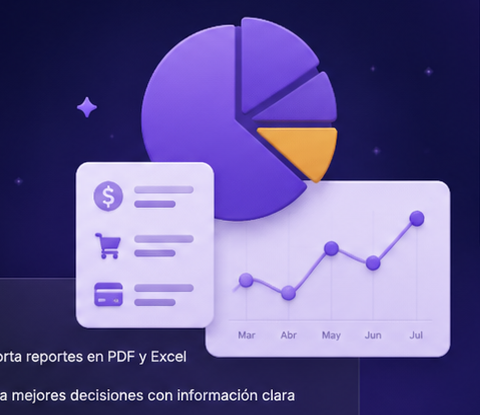
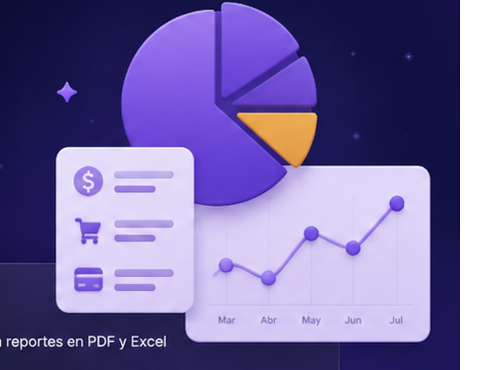
1206_0335

diff --git a/css/styles.css b/css/styles.css
@@ -6510,3 +6510,201 @@ body.is-premium-user #premiumView .premium-gold-btn[data-premium-cta] {
   .premium-v4-status .primary-btn { min-height: 48px; }
   .premium-v4-note { grid-template-columns: 1fr; }
 }
+
+
+/* Korah v4.1 Premium hero exact layout fix */
+#premiumView {
+  height: calc(100vh - 48px) !important;
+  min-height: 0 !important;
+  overflow-y: auto !important;
+  overflow-x: hidden !important;
+  padding: clamp(16px, 2vw, 26px) !important;
+  padding-bottom: 96px !important;
+  gap: 18px !important;
+}
+.premium-v4-hero {
+  position: relative !important;
+  overflow: hidden !important;
+  border-radius: 28px !important;
+  min-height: auto !important;
+  padding: clamp(28px, 4vw, 54px) !important;
+  display: grid !important;
+  grid-template-columns: minmax(420px, 1.05fr) minmax(300px, .78fr) minmax(310px, .62fr) !important;
+  grid-template-areas: "copy visual status" !important;
+  align-items: center !important;
+  column-gap: clamp(18px, 3vw, 46px) !important;
+  row-gap: 24px !important;
+  color: #fff !important;
+  background:
+    radial-gradient(circle at 92% 0%, rgba(196, 91, 255, .20), transparent 30%),
+    radial-gradient(circle at 47% 34%, rgba(109, 56, 245, .30), transparent 36%),
+    linear-gradient(135deg, #0f1834 0%, #111430 50%, #21115b 100%) !important;
+  box-shadow: 0 28px 80px rgba(15, 23, 42, .16) !important;
+}
+.premium-v4-hero::after {
+  content: '' !important;
+  position: absolute !important;
+  inset: 0 !important;
+  pointer-events: none !important;
+  background:
+    radial-gradient(circle at 50% 18%, rgba(255,255,255,.25) 0 2px, transparent 3px),
+    radial-gradient(circle at 41% 41%, rgba(167,139,250,.55) 0 2px, transparent 3px),
+    radial-gradient(circle at 70% 28%, rgba(167,139,250,.45) 0 2px, transparent 3px) !important;
+  opacity: .7 !important;
+}
+.premium-v4-copy {
+  grid-area: copy !important;
+  position: relative !important;
+  z-index: 3 !important;
+  min-width: 0 !important;
+}
+.premium-v4-copy h3 {
+  margin: clamp(18px, 2vw, 30px) 0 16px !important;
+  max-width: 660px !important;
+  font-size: clamp(44px, 4.6vw, 76px) !important;
+  line-height: .98 !important;
+  letter-spacing: -.075em !important;
+  color: #f8fafc !important;
+  overflow: visible !important;
+}
+.premium-v4-copy h3 span { color: #c4b5fd !important; }
+.premium-v4-copy > p {
+  max-width: 590px !important;
+  margin: 0 !important;
+  color: rgba(255,255,255,.80) !important;
+  font-size: clamp(15px, 1.1vw, 18px) !important;
+  line-height: 1.62 !important;
+}
+.premium-v4-why {
+  max-width: 840px !important;
+  margin-top: clamp(22px, 2.8vw, 34px) !important;
+  padding: clamp(18px, 2vw, 24px) !important;
+  border-radius: 22px !important;
+  background: rgba(255,255,255,.07) !important;
+  border: 1px solid rgba(255,255,255,.14) !important;
+  backdrop-filter: blur(16px) !important;
+  box-shadow: inset 0 1px 0 rgba(255,255,255,.12) !important;
+}
+.premium-v4-why h4 {
+  margin: 0 0 16px !important;
+  color: #bda8ff !important;
+  font-size: clamp(17px, 1.25vw, 22px) !important;
+}
+.premium-v4-why-grid {
+  display: grid !important;
+  grid-template-columns: repeat(2, minmax(0, 1fr)) !important;
+  gap: 12px 28px !important;
+}
+.premium-v4-why-grid p {
+  margin: 0 !important;
+  display: flex !important;
+  gap: 10px !important;
+  align-items: flex-start !important;
+  color: rgba(255,255,255,.86) !important;
+  font-size: clamp(12px, .9vw, 15px) !important;
+  line-height: 1.35 !important;
+  font-weight: 760 !important;
+}
+.premium-v4-why-grid i {
+  flex: 0 0 22px !important;
+  width: 22px !important;
+  height: 22px !important;
+  border-radius: 999px !important;
+  display: grid !important;
+  place-items: center !important;
+  color: #2e1065 !important;
+  background: linear-gradient(135deg, #a78bfa, #8b5cf6) !important;
+  font-size: 12px !important;
+  font-style: normal !important;
+  font-weight: 950 !important;
+}
+.premium-v4-visual {
+  grid-area: visual !important;
+  position: relative !important;
+  z-index: 2 !important;
+  display: grid !important;
+  place-items: center !important;
+  min-width: 0 !important;
+  margin: 0 -38px 0 -62px !important;
+  pointer-events: none !important;
+}
+.premium-v4-visual img {
+  width: clamp(340px, 31vw, 520px) !important;
+  max-width: none !important;
+  height: auto !important;
+  border-radius: 0 !important;
+  object-fit: contain !important;
+  filter: drop-shadow(0 26px 42px rgba(0,0,0,.28)) !important;
+  mix-blend-mode: screen !important;
+  opacity: .98 !important;
+}
+.premium-v4-status {
+  grid-area: status !important;
+  position: relative !important;
+  z-index: 4 !important;
+  align-self: center !important;
+  min-width: 0 !important;
+  border-radius: 24px !important;
+  padding: clamp(20px, 2vw, 30px) !important;
+  border: 1px solid rgba(255,255,255,.20) !important;
+  background: rgba(255,255,255,.08) !important;
+  box-shadow: inset 0 1px 0 rgba(255,255,255,.12), 0 22px 58px rgba(0,0,0,.16) !important;
+  backdrop-filter: blur(18px) !important;
+}
+.premium-v4-status strong {
+  color: #f8fafc !important;
+  font-size: clamp(26px, 2.55vw, 40px) !important;
+  line-height: 1.05 !important;
+  letter-spacing: -.06em !important;
+}
+.premium-v4-status p {
+  color: rgba(255,255,255,.74) !important;
+  margin: 12px 0 22px !important;
+}
+.premium-v4-status .primary-btn {
+  width: 100% !important;
+  min-height: 58px !important;
+  border-radius: 14px !important;
+  background: linear-gradient(135deg, #a78bfa, #6d38f5) !important;
+  color: #fff !important;
+}
+.premium-v4-feature-row {
+  display: grid !important;
+  grid-template-columns: repeat(3, minmax(0,1fr)) !important;
+  gap: 16px !important;
+  margin-top: 4px !important;
+}
+.premium-v4-feature-row article {
+  background: #fff !important;
+  color: #0f172a !important;
+  border: 1px solid rgba(226,232,240,.95) !important;
+  box-shadow: 0 18px 55px rgba(15,23,42,.06) !important;
+  border-radius: 24px !important;
+  padding: clamp(22px, 2vw, 34px) !important;
+}
+.premium-v4-note { margin-bottom: 16px !important; }
+@media (max-width: 1500px) {
+  .premium-v4-hero {
+    grid-template-columns: minmax(0, 1.15fr) minmax(260px, .72fr) !important;
+    grid-template-areas: "copy status" "copy visual" !important;
+  }
+  .premium-v4-visual { justify-content: end !important; margin: -68px 0 0 !important; }
+  .premium-v4-visual img { width: clamp(300px, 29vw, 430px) !important; }
+}
+@media (max-width: 1020px) {
+  .premium-v4-hero {
+    grid-template-columns: 1fr !important;
+    grid-template-areas: "copy" "visual" "status" !important;
+    padding: 26px !important;
+  }
+  .premium-v4-visual { margin: 0 auto !important; }
+  .premium-v4-visual img { width: min(100%, 420px) !important; }
+  .premium-v4-why-grid { grid-template-columns: 1fr !important; }
+  .premium-v4-feature-row { grid-template-columns: 1fr !important; }
+}
+@media (max-width: 720px) {
+  #premiumView { padding: 14px !important; padding-bottom: 106px !important; }
+  .premium-v4-hero { border-radius: 22px !important; padding: 20px !important; }
+  .premium-v4-copy h3 { font-size: clamp(34px, 11vw, 46px) !important; }
+  .premium-v4-status { padding: 18px !important; }
+}

diff --git a/index.html b/index.html
@@ -8,7 +8,7 @@
   <link rel="preconnect" href="https://fonts.googleapis.com">
   <link rel="preconnect" href="https://fonts.gstatic.com" crossorigin>
   <link href="https://fonts.googleapis.com/css2?family=Inter:wght@400;500;600;700;800&display=swap" rel="stylesheet">
-  <link rel="stylesheet" href="css/styles.css?v=3.8.0-premium-account-links" />
+  <link rel="stylesheet" href="css/styles.css?v=4.1-premium-layout-fix" />
 </head>
 <body>
   <section class="auth-screen hidden" id="authScreen">